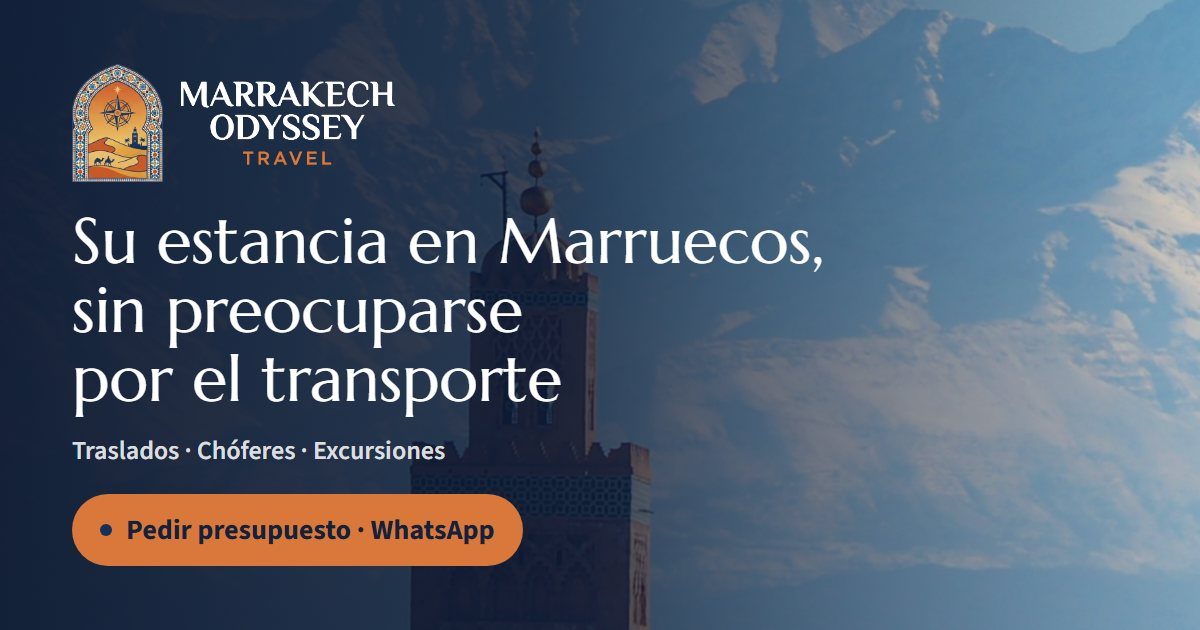
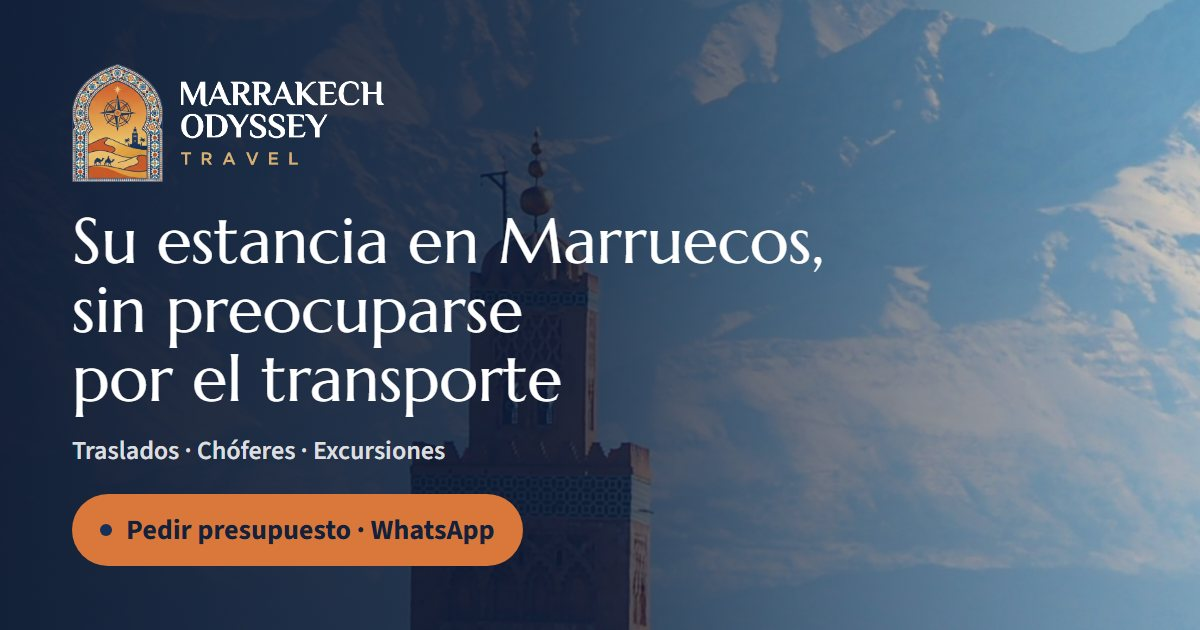
Name lettering in the left-aligned style: MARRAKECH / ODYSSEY / T R A V E L
Same letters as the logo, rearranged: left-aligned, tight lines, TRAVEL
widely spaced in gold (#B08040 on light, #D6AE74 on dark). Script:
brand/my-logo/make_wordmark.py. Link previews regenerated.

Changed region(s): [[0.1542, 0.1206, 0.3392, 0.2714]]

diff --git a/js/render.js b/js/render.js
@@ -65,8 +65,8 @@
   function brandInner() {
     var parts = SITE.brandParts && SITE.brandParts.length ? SITE.brandParts : [[SITE.agencyName, "strong"]];
     return '<img class="brand-logo" src="' + asset("images/logo-emblem.png") + '" alt="" width="60" height="78">' +
-      '<span class="brand-word"><img class="bw bw-navy" src="' + asset("images/wordmark.png") + '" alt="" width="163" height="64">' +
-      '<img class="bw bw-white" src="' + asset("images/wordmark-white.png") + '" alt="" width="163" height="64"></span>' +
+      '<span class="brand-word"><img class="bw bw-navy" src="' + asset("images/wordmark.png") + '" alt="" width="155" height="64">' +
+      '<img class="bw bw-white" src="' + asset("images/wordmark-white.png") + '" alt="" width="155" height="64"></span>' +
       '<span class="visually-hidden">' + esc(parts.map(function (p) { return p[0]; }).join(" ")) + "</span>";
   }
 

diff --git a/brand/my-logo/make_wordmark.py b/brand/my-logo/make_wordmark.py
@@ -1,0 +1,77 @@
+# Rebuilds the name in the logo's own lettering, in the "left-aligned" style:
+#   MARRAKECH
+#   ODYSSEY
+#   T R A V E L   (smaller, widely spaced, gold)
+# Source: the lettering cut from the original logo (wordmark-source.png, navy).
+# Writes brand/my-logo/wordmark.png (navy, for light backgrounds),
+#        brand/my-logo/wordmark-white.png (white, for dark backgrounds)
+#        and the web copies in images/.
+import os
+import numpy as np
+from PIL import Image
+
+HERE = os.path.dirname(os.path.abspath(__file__))
+ROOT = os.path.dirname(os.path.dirname(HERE))
+SRC = os.path.join(HERE, "wordmark-source.png")
+
+NAVY = (23, 48, 89)
+WHITE = (255, 255, 255)
+GOLD_ON_LIGHT = (176, 128, 64)     # #B08040, readable on white / cream
+GOLD_ON_DARK = (214, 174, 116)     # #D6AE74, like the example on navy
+
+def runs(mask):
+    """(start, end) of consecutive True values."""
+    out, s = [], None
+    for i, v in enumerate(mask):
+        if v and s is None: s = i
+        if not v and s is not None: out.append((s, i)); s = None
+    if s is not None: out.append((s, len(mask)))
+    return out
+
+src = Image.open(SRC).convert("RGBA")
+A = np.asarray(src)[..., 3]
+lines = runs(A.max(axis=1) > 0)
+assert len(lines) == 3, lines
+crops = []
+for y0, y1 in lines:
+    im = src.crop((0, y0, src.width, y1))
+    crops.append(im.crop(im.getbbox()))
+l1, l2, l3 = crops
+cap = l1.height
+
+# TRAVEL: cut each letter, shrink a little, re-space widely
+a3 = np.asarray(l3)[..., 3]
+letters = [l3.crop((x0, 0, x1, l3.height)) for x0, x1 in runs(a3.max(axis=0) > 0)]
+assert len(letters) == 6, len(letters)
+scale = 1.0
+letters = [im.resize((max(1, round(im.width * scale)), max(1, round(im.height * scale))), Image.LANCZOS) for im in letters]
+gap = round(cap * 0.42)                      # wide letter spacing
+travel_w = sum(im.width for im in letters) + gap * (len(letters) - 1)
+travel_h = max(im.height for im in letters)
+
+g1 = round(cap * 0.30)                       # MARRAKECH -> ODYSSEY
+g2 = round(cap * 0.55)                       # ODYSSEY -> TRAVEL
+W = max(l1.width, l2.width, travel_w)
+H = l1.height + g1 + l2.height + g2 + travel_h
+
+def build(main_rgb, travel_rgb):
+    out = Image.new("RGBA", (W, H), (0, 0, 0, 0))
+    def paste(im, x, y, rgb):
+        a = np.asarray(im)[..., 3]
+        solid = Image.fromarray(np.dstack([np.full_like(a, rgb[0]), np.full_like(a, rgb[1]), np.full_like(a, rgb[2]), a]), "RGBA")
+        out.alpha_composite(solid, (x, y))
+    y = 0
+    paste(l1, 0, y, main_rgb); y += l1.height + g1
+    paste(l2, 0, y, main_rgb); y += l2.height + g2
+    x = 0
+    for im in letters:
+        paste(im, x, y + travel_h - im.height, travel_rgb); x += im.width + gap
+    return out
+
+for name, main, gold in [("wordmark", NAVY, GOLD_ON_LIGHT), ("wordmark-white", WHITE, GOLD_ON_DARK)]:
+    im = build(main, gold)
+    im.save(os.path.join(HERE, name + ".png"), optimize=True)
+    h = 140
+    web = im.resize((round(im.width * h / im.height), h), Image.LANCZOS)
+    web.quantize(64, method=Image.Quantize.FASTOCTREE).save(os.path.join(ROOT, "images", name + ".png"), optimize=True)
+    print(name, im.size, "-> web", web.size)
